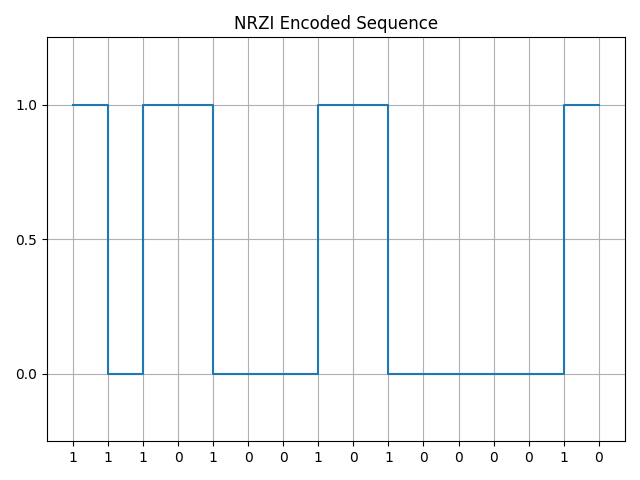
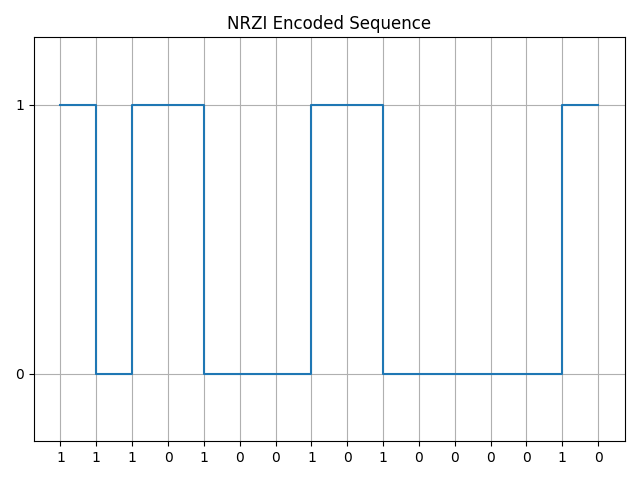
new images

diff --git a/project/utils/plot_encoding.py b/project/utils/plot_encoding.py
@@ -1,6 +1,6 @@
 import matplotlib.pyplot as plt
 
-def plot_signal(bits, signal, title, file_path, negative_ylim=0.25, yticks=[0, 0.5, 1], manchester=False):
+def plot_signal(bits, signal, title, file_path, negative_ylim=0.25, yticks=[0, 1], manchester=False):
     if manchester:
         # Criar o eixo do tempo e duplicar o sinal corretamente
         time = []
